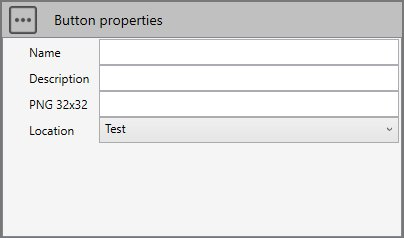
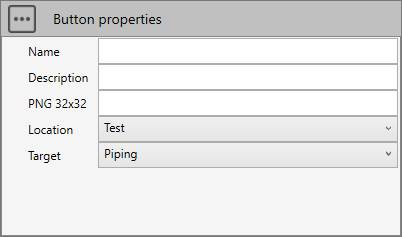
Python next

diff --git a/Python/Study.md b/Python/Study.md
@@ -19,7 +19,7 @@ Select a script via the dropdown list :
 
 ![Image](../Images/PythonStudy2.jpg)
 
-You can create scripts that are independant of the current study, you can **inject** data to the internal model (MetaL - point 1), you can **extract** data from the internal model (MetaL - point 2), or you can **extract** data from the solution (Solution - point 3).
+You can create scripts that are independant of the current study, you can **inject** data to the internal model, you can **extract** data from the internal model, or you can **extract** data from the solution.
 
 Let's see how to create this kind of script.
 
@@ -31,11 +31,13 @@ From the Home/Python, click on button 1 (Add project script) :
 
 ![Image](../Images/PythonMenu.jpg)
 
-Give it a name and wait several seconds the ***Python Virtual Environment*** is generating...
+Give it a name and answer **YES** if you need ***Python Virtual Environment*** for libraries. In this case, wait until the Virtual Environment is generating...
 
 A new *main.py* will be created in the file explorer and *Inputs* and *Outputs* nodes in the Project script. Requirements.txt and the Editor are empty :
 
 ![Image](../Images/PythonStudy3.jpg)
+
+>Requirements.txt is hidden if you answer **NO** to the question about ***Python Virtual Environment***
 
 Buttons with three points indicates the presence of a dropdown list :
 
@@ -58,6 +60,7 @@ In Project script :
     - Add SOLUTION input        : Add an access to the solution
     - Add TEXT output           : Add an output text in the script brick
     - Add FILENAME output       : Add an output filename that can be edit by the user by double clic
+    - Add CONSOLE output        : Add an output text list in the script brick
     - Save                      : Save the script definition
     - Remove                    : Remove the selected item
 ```

diff --git a/Python/design.md b/Python/design.md
@@ -14,7 +14,7 @@ The **Design** mode is the part of the application dedicated to :
 - Review : review everything before launching the calculations
 - Analysis : analyze the piping
 
->MetaPiping 2023.0 gives an access to **Design** and **Review**.
+>MetaPiping 2024 gives an access to **Design** and **Review**.
 
 The other parts will come soon...
 
@@ -37,7 +37,7 @@ From the Home/Python, click on button 3 (Add 3D script) :
 
 ![Image](../Images/PythonMenu.jpg)
 
-Give it a name and wait several seconds the ***Python Virtual Environment*** is generating...
+Give it a name and answer **YES** if you need ***Python Virtual Environment*** for libraries. In this case, wait until the Virtual Environment is generating...
 
 The whole screen and the dropdown lists are the same as the
 [study](https://documentation.metapiping.com/Python/Study.html) scripts.
@@ -54,9 +54,7 @@ This 32x32 button will appear on the possible locations :
 - Review    : In Review ribbon
 - Analysis  : In Analysis ribbon
 
-Example of the **Design** ribbon :
-
-![Image](../Images/PythonDesign2.jpg)
+The Target can be **Piping** or **Structure**.
 
 A new *main.py* will be created in the file explorer and requirements.txt and the Editor will be empty.
 

diff --git a/Python/index.md b/Python/index.md
@@ -11,7 +11,7 @@ MetaPiping offers to user the possibility to manipulate datas produced by the so
 
 These manipulations can be done via **Python** scripts, a simple and well documented language, with a great free mathematical, scientific and computer library, appreciated by engineers.
 
-A script contains one or more *.py files in a **python virtual environment**. 
+A script contains one or more *.py files and can use a **python virtual environment**. 
 
 **Main.py** is mantadory and represents the main access of the script.
 
@@ -53,7 +53,7 @@ The screen is made up of different parts :
 1. The list of all scripts (of all type)
 2. The files (and directories) used in the script - select a file shows it in the editor (6)
 3. The properties of the script (Type, Name, Input, Output...)
-4. The **requirements.txt** of the virtual environment of the script
+4. The **requirements.txt** of the eventual virtual environment of the script
 5. The chatGPT help - [See chatGPT page for more information](https://documentation.metapiping.com/Python/chatGPT.html) 
 6. The Python **Editor** - or image viewer if you select an image in the file explorer (2)
 

diff --git a/Python/Samples/lyre.md b/Python/Samples/lyre.md
@@ -14,7 +14,7 @@ Create a script that will (after pressing a **button** in the ribbon) replace a 
 
 ![Image](../../Images/illustration256x165.png)
 
->This feature does not exists in MetaPiping 2023.2 so it is usefull that user can create his own COMMANDS based on the MetaL internal format and the existing documented commands.
+>This feature does not exists in MetaPiping 2024 so it is usefull that user can create his own COMMANDS based on the MetaL internal format and the existing documented commands.
 
 >Since the user will have to create a COMMAND, the application will manage the undo/redo operations by itself !
 

diff --git a/Python/Samples/distance2.md b/Python/Samples/distance2.md
@@ -12,8 +12,6 @@ grand_parent: Python
 
 Create a script that will (after pressing a **button** in the ribbon) show in left frame the distance between 2 selected nodes.
 
->This feature does not exists in MetaPiping 2023.0 so it is usefull that user can create his own REVIEW tools.
-
 ## 2. Script definition
 
 From the Home/Python, click on **button 3** (Add 3D script) :

diff --git a/Python/Samples/distance.md b/Python/Samples/distance.md
@@ -12,7 +12,6 @@ grand_parent: Python
 
 Create a script that will (after pressing a **button** in the ribbon) show by message the distance between 2 selected nodes.
 
->This feature does not exists in MetaPiping 2023.0 so it is usefull that user can create his own REVIEW tools.
 
 ## 2. Script definition
 

diff --git a/index.md b/index.md
@@ -6,7 +6,7 @@ nav_order: 1
 
 # Welcome to MetaPiping User Manual
 
-The new modeling and analysis software for NUCLEAR and INDUSTRIAL piping systems.
+The new modeling and analysis software for NUCLEAR and INDUSTRIAL piping systems and its supports.
 
 ![Logo](Images/Piping.jpg)
 

diff --git a/Python/Configuration.md b/Python/Configuration.md
@@ -13,7 +13,7 @@ The **Python integration** in MetaPiping is automatically made during installati
 
 ## 1. Python
 
-MetaPiping 2023 is intalled with Python version :
+MetaPiping 2024 is intalled with Python version :
 
 >Python 3.7
 
